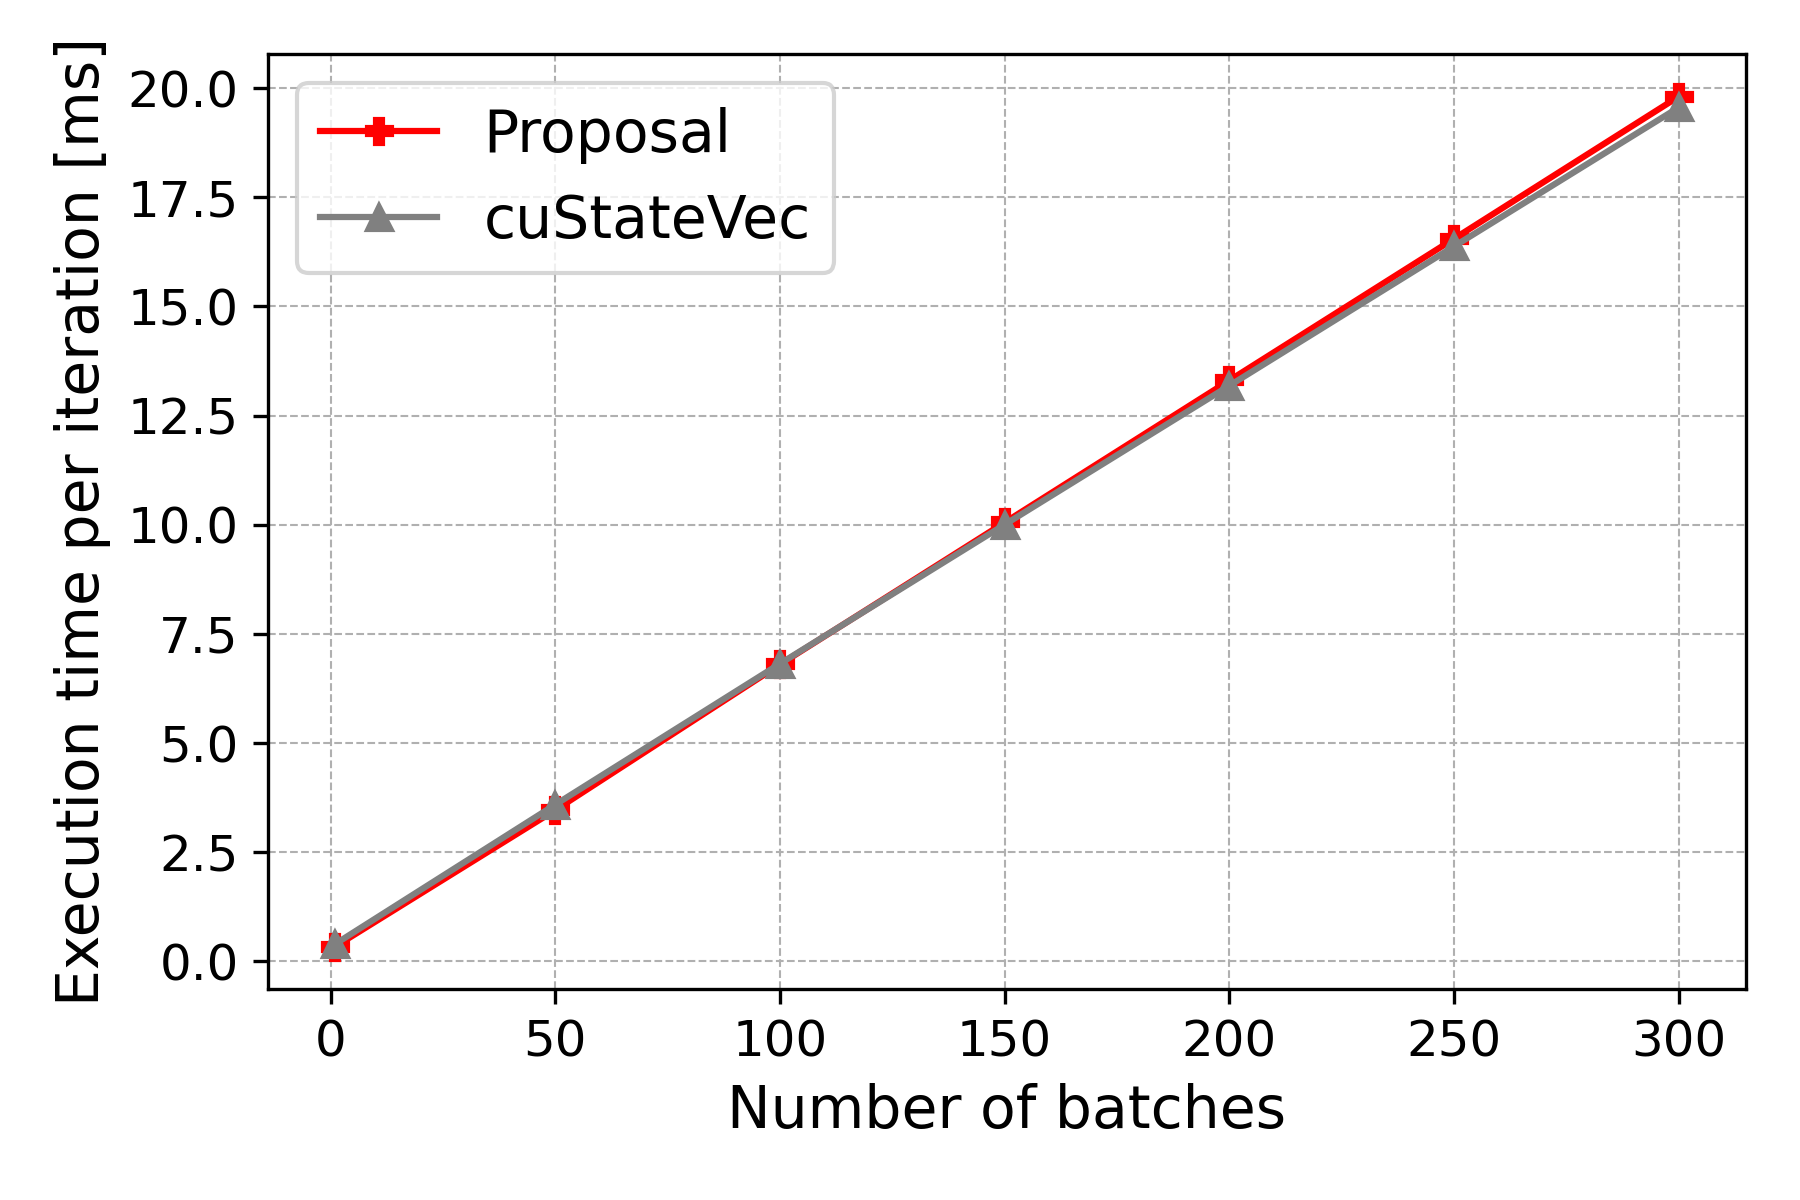
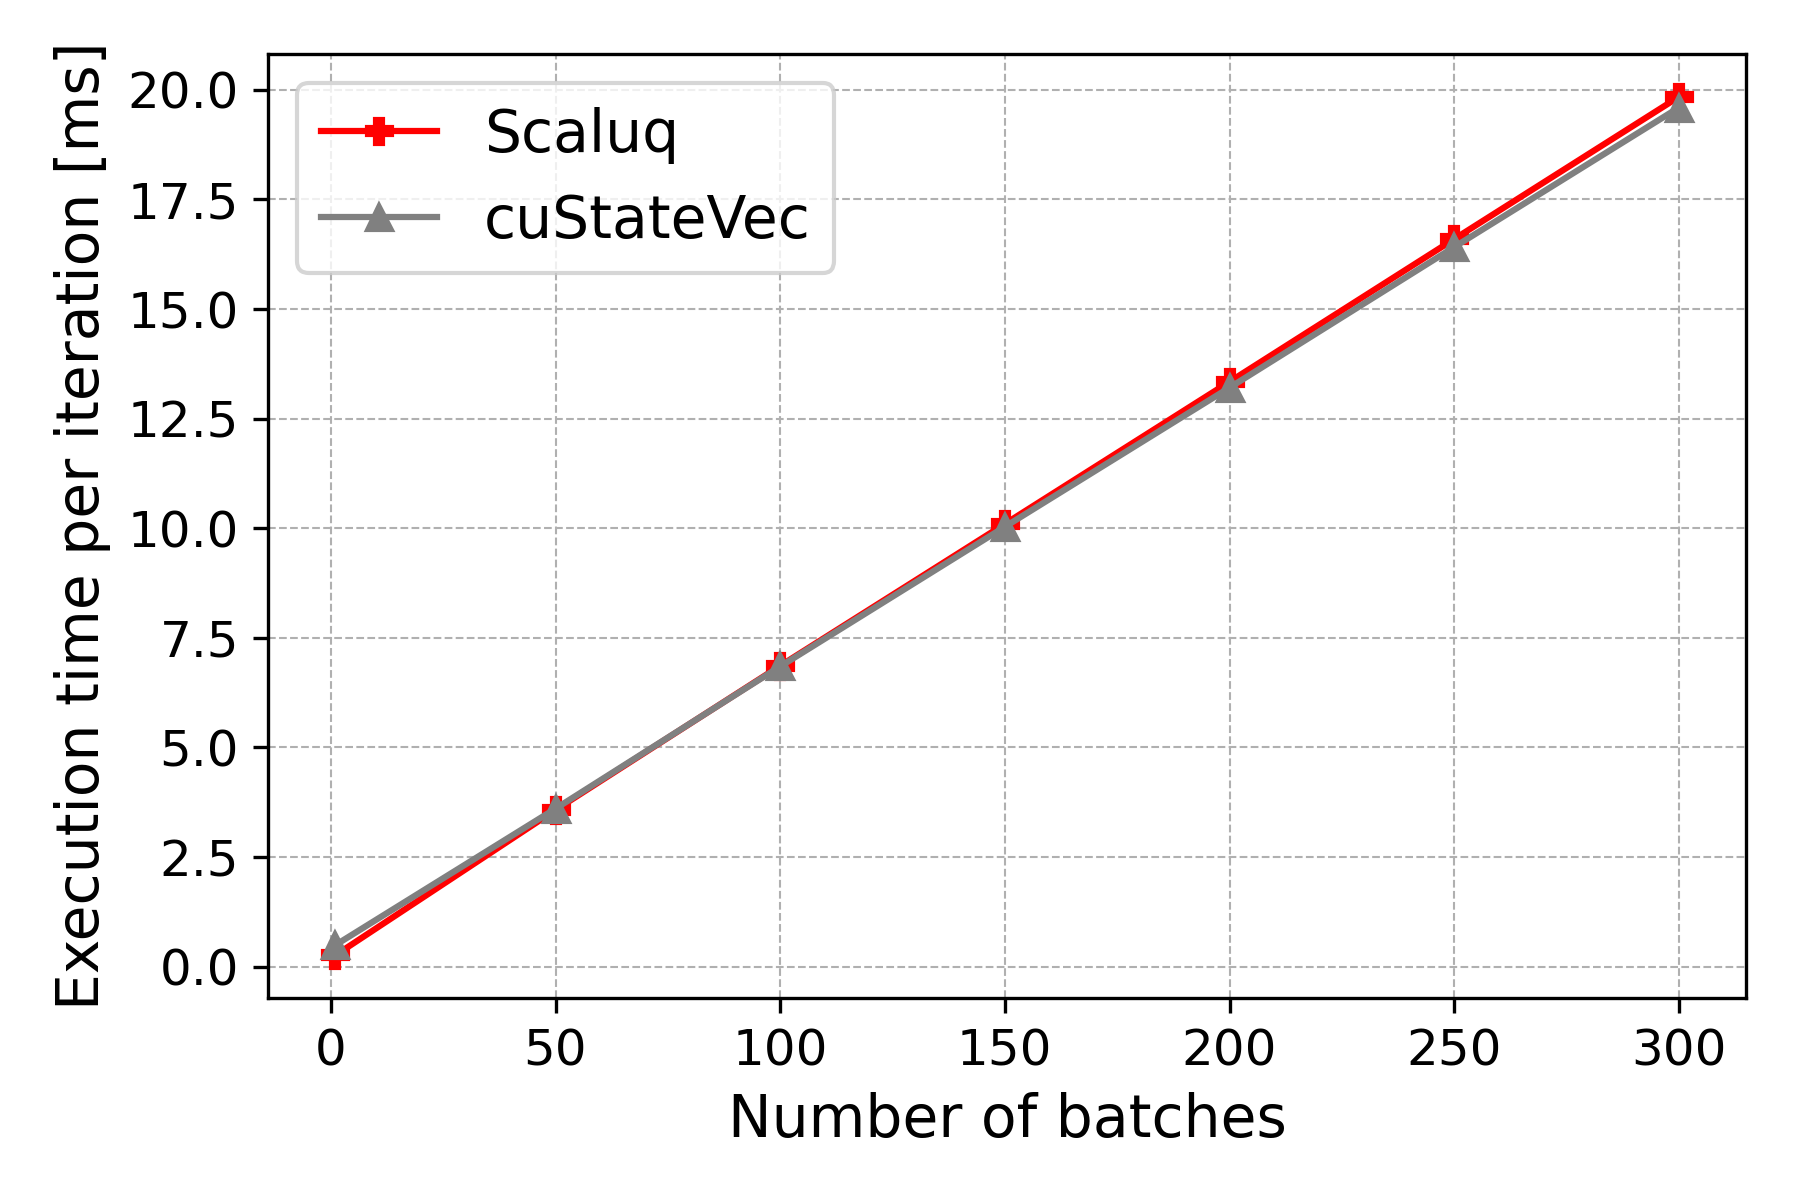
Batch plots: rename Proposal->Scaluq, output to image/, refresh figures
- plot_batch_sweep.py / plot_qubits_sweep.py: label the proposed library
  "Scaluq" (was "Proposal"), consistent with the other figures, and write to
  image/ instead of the current directory.
- Refresh image/batch_sweep.png and image/qubits_sweep.png with the
  CUDA-event-timed results.

diff --git a/benchmark/batch/plot_batch_sweep.py b/benchmark/batch/plot_batch_sweep.py
@@ -21,7 +21,7 @@ csv_file = sys.argv[1]
 df = pd.read_csv(csv_file)
 
 name_map = {
-    "scaluq": "Proposal",
+    "scaluq": "Scaluq",
     "custatevec": "cuStateVec",
 }
 
@@ -49,4 +49,4 @@ plt.ylabel("Execution time per iteration [ms]")
 plt.grid(True, which="both", linestyle="--", linewidth=0.5)
 plt.legend()
 plt.tight_layout()
-plt.savefig("batch_sweep.png", dpi=300)
+plt.savefig("image/batch_sweep.png", dpi=300)

diff --git a/benchmark/batch/plot_qubits_sweep.py b/benchmark/batch/plot_qubits_sweep.py
@@ -21,7 +21,7 @@ csv_file = sys.argv[1]
 df = pd.read_csv(csv_file)
 
 name_map = {
-    "scaluq": "Proposal",
+    "scaluq": "Scaluq",
     "custatevec": "cuStateVec",
 }
 
@@ -54,4 +54,4 @@ plt.xticks(range(min_q, max_q + 1, 2))
 plt.grid(True, which="both", linestyle="--", linewidth=0.5)
 plt.legend()
 plt.tight_layout()
-plt.savefig("qubits_sweep.png", dpi=300)
+plt.savefig("image/qubits_sweep.png", dpi=300)
